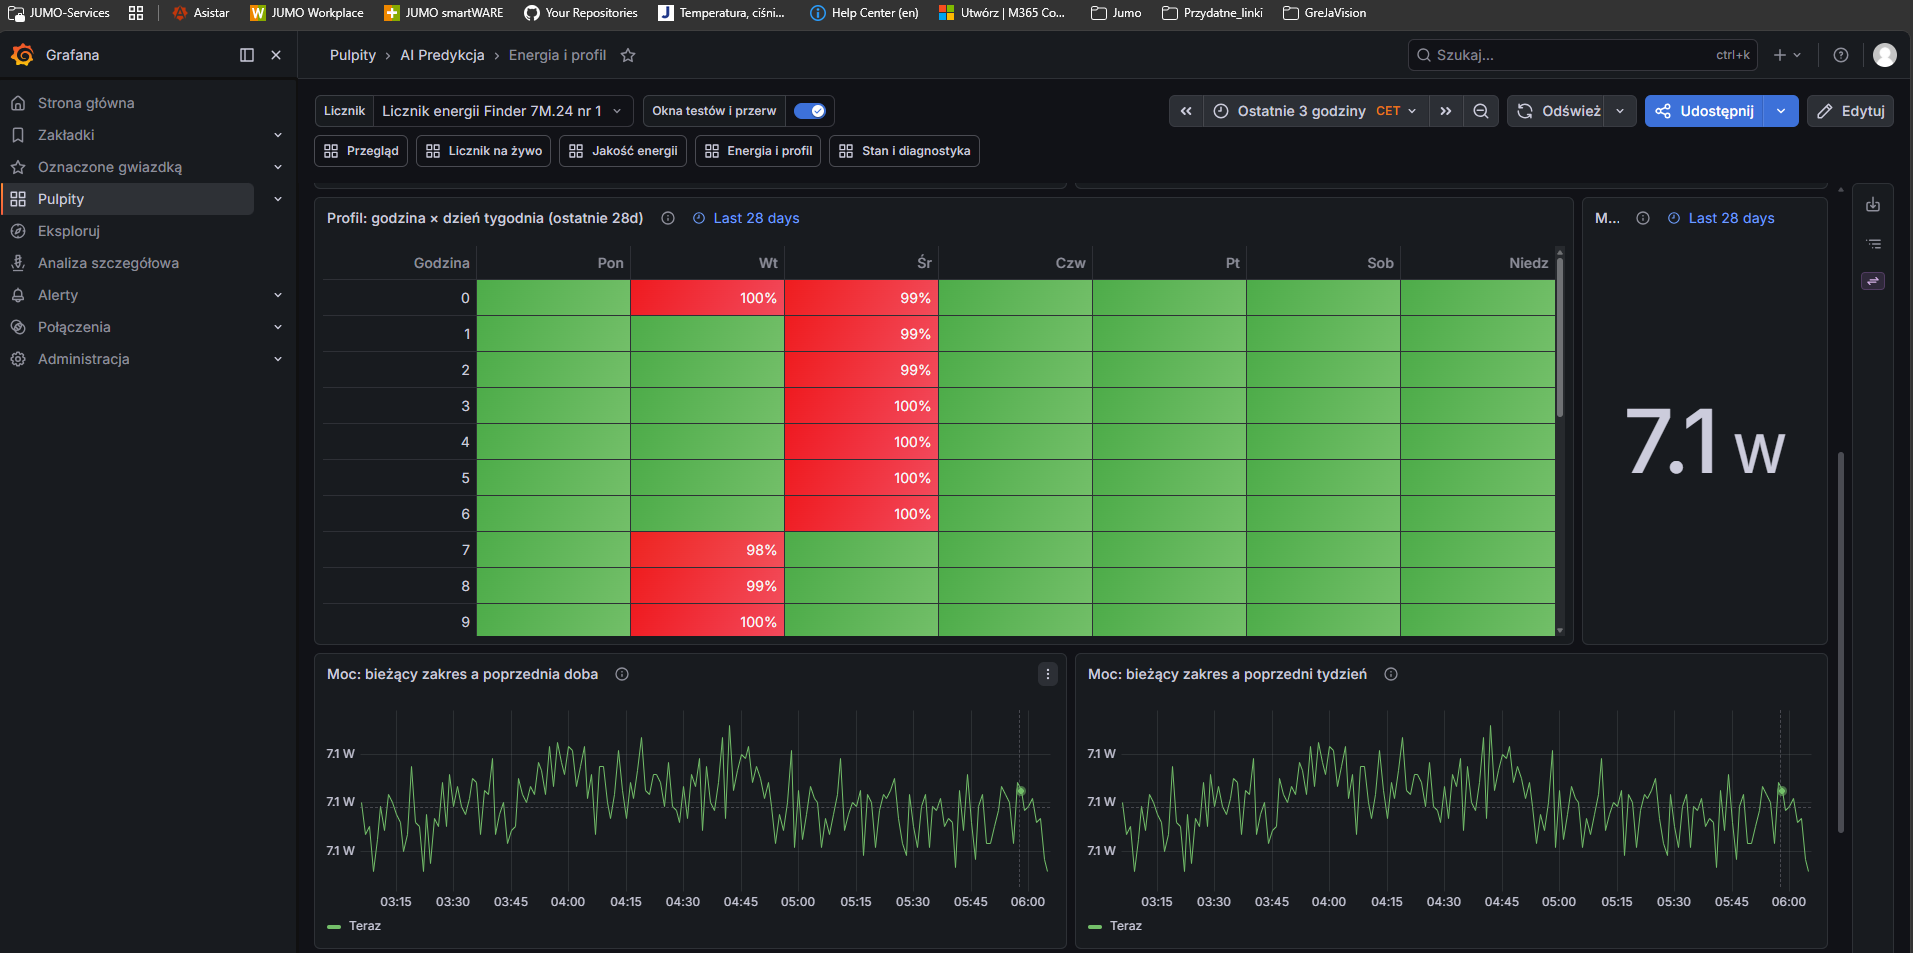
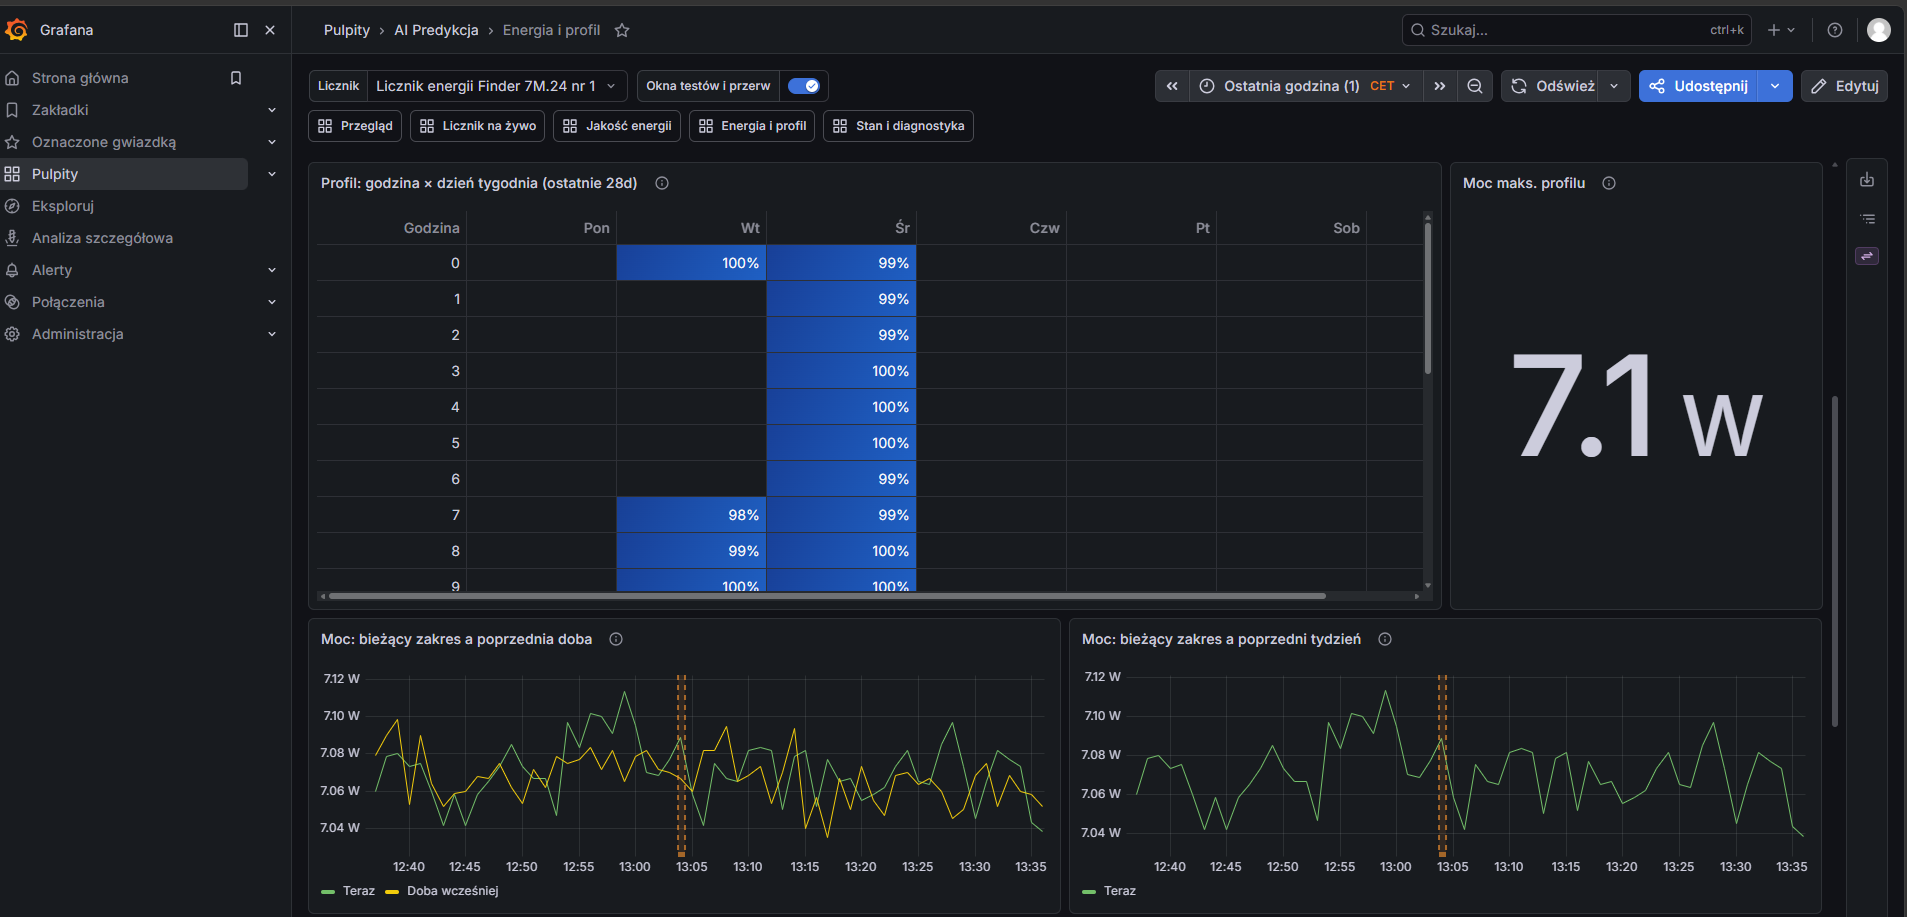
grafana: reactive axis text labels, base power over last 14 nights, profile without horizontal scroll; 13:40 review and screenshots 06 (E2-k8c)

diff --git a/grafana/generate.py b/grafana/generate.py
@@ -487,6 +487,7 @@ PART = "Pokrycie upłynionej części (w toku)"      # jedna nazwa i definicja d
 PROFILE_RANGE = "28d"
 DAYS_RANGE = "14d"
 PROFILE_DAYS, DAILY_DAYS = 28, 14
+BASE_NIGHTS = 14                 # ostatnie noce w panelu mocy bazowej (K8-V6), zakres jak doby
 # Własny zakres panelu liczony w SQL od „teraz”, a nie nadpisaniem `timeFrom`: Grafana stosuje `timeFrom` tylko przy WZGLĘDNYM zakresie pulpitu,
 # a przy bezwzględnym (np. po zaznaczeniu wykresu) go ignoruje, więc panele pokazywały godziny z zakresu pulpitu (K7C-V1, k7d).
 # Znacznik w SQL dla każdego takiego panelu (pilnuje go test): panel -> fragment zapytania.
@@ -500,7 +501,15 @@ OWN_RANGE_PANELS = {            # (dashboard, tytuł) -> klucz znacznika
     ("energia", "Moc maks. profilu"): "profile",
     ("energia", f"Kontrola całki mocy a licznik wzorcowy (doby, ostatnie {DAYS_RANGE})"): "daily",
     ("energia", f"Energia bierna na dobę: całka i licznik (ostatnie {DAYS_RANGE})"): "daily",
+    ("energia", f"Moc bazowa (5. percentyl nocą, ostatnie {BASE_NIGHTS} nocy)"): "daily",
 }
+
+
+# Etykieta doby jako TEKST (K8-V5): samo "23.11" Grafana odczytywala jako liczbe 23,11 i dopisywala jednostke osi wartosci ("23.1 varh").
+# Skrot dnia tygodnia (jak w profilu) czyni etykiete jednoznacznie tekstowa i dodaje informacje.
+def _day_label(day_expr: str) -> str:
+    names = " ".join(f"WHEN {i + 1} THEN '{name}'" for i, name in enumerate(WEEKDAYS))
+    return f"to_char({day_expr}, 'DD.MM') || ' ' || CASE extract(isodow FROM {day_expr})::int {names} END"
 
 
 def _elapsed(bucket_expr: str, width: str) -> str:
@@ -553,7 +562,8 @@ def energy() -> Dash:
                 "to profil zużycia, nie ocena dobrze/źle. Pusta, przezroczysta komórka bez liczby oznacza brak danych.",
                 [target(f"SELECT hour AS \"Godzina\", {cols} FROM (SELECT hour, dow, 100.0 * w / nullif(max(w) OVER (), 0) AS p FROM ({grouped}) g) n "
                         "GROUP BY hour ORDER BY hour", "table")],
-                custom={"cellOptions": {"type": "color-background", "mode": "gradient"}}, decimals=0, unit="percent", min_=0, max_=100,
+                custom={"cellOptions": {"type": "color-background", "mode": "gradient"}, "minWidth": 40, "align": "center"},   # 8 kolumn bez przewijania (K8-V7)
+                decimals=0, unit="percent", min_=0, max_=100,
                 overrides=[{"matcher": {"id": "byName", "options": "Godzina"},
                             "properties": [{"id": "custom.cellOptions", "value": {"type": "auto"}}, {"id": "unit", "value": "none"},
                                            {"id": "color", "value": {"mode": "fixed", "fixedColor": "text"}}]}]), 18, 12, new_row=True)
@@ -580,14 +590,17 @@ def energy() -> Dash:
                              f"FROM energy_1m WHERE bucket BETWEEN $__timeFrom()::timestamptz - interval '7 days' AND $__timeTo()::timestamptz - interval '7 days' AND {DEV} GROUP BY 1 ORDER BY 1",
                              ref="B")],
                      unit="watt", span_ms=150000, decimals=2), 12, 8)
-    d.add(timeseries("Moc bazowa (5. percentyl nocą)",
-                     "Moc bazowa doby: 5. percentyl średniej minutowej mocy czynnej [W] w godzinach lokalnych 00:00–05:00 (obciążenie tła, gdy maszyny nie pracują). "
-                     "Jedna wartość na dobę lokalną.",
-                     [target(f"SELECT (bucket AT TIME ZONE '{TZ}')::date::timestamp AT TIME ZONE '{TZ}' AS time, "
-                             "percentile_cont(0.05) WITHIN GROUP (ORDER BY active_power_sum / active_power_n) AS \"Moc bazowa\" FROM energy_1m "
-                             f"WHERE $__timeFilter(bucket) AND {DEV} AND active_power_n > 0 AND extract(hour FROM bucket AT TIME ZONE '{TZ}') < 5 "
-                             "GROUP BY 1 ORDER BY 1")],
-                     unit="watt", bars=True, span_ms=200000000, decimals=2, min_=0), 24, 8, new_row=True)
+    night_day = f"(bucket AT TIME ZONE '{TZ}')::date"
+    d.add(barchart(f"Moc bazowa (5. percentyl nocą, ostatnie {BASE_NIGHTS} nocy)",
+                   "Moc bazowa doby: 5. percentyl średniej minutowej mocy czynnej [W] w godzinach lokalnych 00:00–05:00 (obciążenie tła, gdy maszyny nie pracują). "
+                   f"Jedna wartość na dobę lokalną. Zakres: ostatnie {BASE_NIGHTS} nocy liczone od teraz, niezależnie od zakresu pulpitu (także bezwzględnego): "
+                   "przy krótkim zakresie (np. 1 godzina) nie ma nocy, więc panel o zakresie pulpitu byłby pusty.",
+                   [target(f"SELECT {_day_label(night_day)} AS \"Noc (doba)\", "
+                           "percentile_cont(0.05) WITHIN GROUP (ORDER BY active_power_sum / active_power_n) AS \"Moc bazowa [W]\" FROM energy_1m "
+                           f"WHERE {night_day} >= {OWN_RANGE_MARKER['daily']} AND {DEV} AND active_power_n > 0 "
+                           f"AND extract(hour FROM bucket AT TIME ZONE '{TZ}') < 5 "
+                           f"GROUP BY {night_day} ORDER BY {night_day}", "table")],
+                   unit="watt", decimals=2, min_=0), 24, 8, new_row=True)
     d.add(timeseries("Energia bierna z mocy (całka Q, godziny)",
                      "Energia bierna z całki mocy biernej [varh] w każdej godzinie, z podziałem na znak Q (suma Q × okres próbkowania / 3600 z obecnych próbek; "
                      "agregat godzinny, obejmuje także okres sprzed mapy v2). Q > 0: indukcyjna (konwencja odbiornika), Q < 0: pojemnościowa, podana jako moduł, "
@@ -599,13 +612,14 @@ def energy() -> Dash:
                    "Energia bierna [varh] w dobie lokalnej: całka mocy biernej (Q > 0 i |Q| przy Q < 0) oraz przyrost liczników n2 (Q > 0) i n4 (Q < 0). "
                    "Przyrost liczy zapytanie z agregatu godzinnego z zapasem 3 dni wstecz (jak widok reactive_1h_calc, ale bez przeglądania całej historii). "
                    "Licznik zmienia stan co 100 varh, a przy Q ≈ −9 var to jeden krok na ok. 11 godzin, więc przyrost dobowy to 0, 100 lub 200: "
-                   "brak przyrostu oznacza „brak kroku licznika”, a nie „brak energii biernej”. Przyrost licznika jest pusty przed mapą v2 (brak danych, nie zero). "
+                   "brak przyrostu oznacza „brak kroku licznika”, a nie „brak energii biernej”. Przyrost licznika jest pusty przed mapą v2 (brak danych, nie zero): dane licznika są od 25.11.2026 10:43 UTC, a do pierwszego kroku licznika n4 "
+                   "(co 100 varh) seria licznika jest pusta lub zerowa, co nie oznacza błędu. "
                    f"Zakres: ostatnie {DAYS_RANGE} liczone od teraz, niezależnie od zakresu pulpitu (także bezwzględnego).",
                    [target("WITH h AS (SELECT bucket, counter_pos_first AS pf, counter_pos_last AS pl, counter_neg_first AS nf, counter_neg_last AS nl, "
                            "reactive_pos_sum, reactive_neg_sum FROM energy_ext_1h WHERE " + DEV + " AND bucket >= now() - interval '17 days'), "
                            "pos AS (SELECT bucket, pf, pl, lag(pl) OVER (ORDER BY bucket) AS prev FROM h WHERE pl IS NOT NULL), "
                            "neg AS (SELECT bucket, nf, nl, lag(nl) OVER (ORDER BY bucket) AS prev FROM h WHERE nl IS NOT NULL) "
-                           "SELECT to_char(day, 'DD.MM') AS \"Doba\", pos_int AS \"Całka Q > 0\", neg_int AS \"Całka |Q| (Q < 0)\", "
+                           f"SELECT {_day_label('day')} AS \"Doba\", pos_int AS \"Całka Q > 0\", neg_int AS \"Całka |Q| (Q < 0)\", "
                            "pos_delta AS \"Licznik n2 (Q > 0)\", neg_delta AS \"Licznik n4 (Q < 0)\" FROM ("
                            f"SELECT (h.bucket AT TIME ZONE '{TZ}')::date AS day, sum(h.reactive_pos_sum) * {POLL} / 3600.0 AS pos_int, "
                            f"-sum(h.reactive_neg_sum) * {POLL} / 3600.0 AS neg_int, "

diff --git a/tests/grafana/test_grafana_generator.py b/tests/grafana/test_grafana_generator.py
@@ -95,7 +95,7 @@ def test_panels_with_their_own_range_do_not_depend_on_the_dashboard_range():
     assert set(generator.OWN_RANGE_PANELS) == {
         ("energia", "Zużycie na dobę (ostatnie 14d)"), ("energia", "Profil: godzina × dzień tygodnia (ostatnie 28d)"),
         ("energia", "Moc maks. profilu"), ("energia", "Kontrola całki mocy a licznik wzorcowy (doby, ostatnie 14d)"),
-        ("energia", "Energia bierna na dobę: całka i licznik (ostatnie 14d)")}
+        ("energia", "Energia bierna na dobę: całka i licznik (ostatnie 14d)"), ("energia", "Moc bazowa (5. percentyl nocą, ostatnie 14 nocy)")}
     for key, marker in generator.OWN_RANGE_PANELS.items():
         panel = panels[key]
         for target in panel["targets"]:
@@ -205,9 +205,9 @@ def test_k7c_formatting_fixes():
     """W-5 (decimals 2), W-6 (słupki), W-7 (krótkie nagłówki), W-8 (wysokość), W-9 (kolor i zapas osi pasm)."""
     panels = _panels()
     for key in (("energia", "Moc: bieżący zakres a poprzednia doba"), ("energia", "Moc: bieżący zakres a poprzedni tydzień"),
-                ("energia", "Moc bazowa (5. percentyl nocą)")):
+                ("energia", "Moc bazowa (5. percentyl nocą, ostatnie 14 nocy)")):
         assert panels[key]["fieldConfig"]["defaults"]["decimals"] == 2, key
-    assert panels[("energia", "Moc bazowa (5. percentyl nocą)")]["fieldConfig"]["defaults"]["custom"]["drawStyle"] == "bars"
+    assert panels[("energia", "Moc bazowa (5. percentyl nocą, ostatnie 14 nocy)")]["type"] == "barchart"             # K8-V6: oś kategorii (nocy), nie czasu pulpitu
     control = next(p for (n, t), p in panels.items() if t.startswith("Kontrola całki mocy"))
     for header in ("Licznik [Wh]", "Ekstrap. [Wh]", "W rozdz.", "Rozdz. [Wh]", "Luki"):
         assert header in control["targets"][0]["rawSql"]
@@ -316,3 +316,32 @@ def test_state_timeline_query_returns_to_the_state_after_a_gap():
     for title in ("Łącze z PLC (link_status)", "Stan licznika (meter_status)"):
         sql = _panels()[("diagnostyka", title)]["targets"][0]["rawSql"]
         assert "time - prev_time > make_interval(secs => $stale_s)" in sql and "prev IS DISTINCT FROM value" in sql, title
+
+
+# --- k8c: K8-V5 (etykiety osi energii biernej), K8-V6 (moc bazowa z własnym zakresem), K8-V7 (profil bez przewijania) ------------
+
+def test_reactive_daily_axis_labels_are_text_and_the_meter_series_is_explained():
+    """K8-V5: etykieta doby nie może wyglądać jak liczba („23.11” -> „23.1 varh”); opis wyjaśnia pustą serię licznika."""
+    panel = _panels()[("energia", "Energia bierna na dobę: całka i licznik (ostatnie 14d)")]
+    sql = panel["targets"][0]["rawSql"]
+    assert "|| ' ' || CASE extract(isodow FROM day)" in sql and "to_char(day, 'DD.MM')" in sql
+    assert "10:43 UTC" in panel["description"] and "n4" in panel["description"] and "pusta" in panel["description"]
+    assert panel["fieldConfig"]["defaults"]["unit"] == "suffix: varh"                  # jednostka na osi wartości, nie kategorii
+
+
+def test_base_power_is_a_barchart_over_the_last_nights_independent_of_the_dashboard_range():
+    """K8-V6: tytuł z zakresem, SQL od „teraz”, etykiety tekstowe (dzień tygodnia)."""
+    panel = _panels()[("energia", "Moc bazowa (5. percentyl nocą, ostatnie 14 nocy)")]
+    sql = panel["targets"][0]["rawSql"]
+    assert panel["type"] == "barchart" and "ostatnie 14 nocy" in panel["title"]
+    assert "$__timeFilter" not in sql and "extract(hour FROM bucket AT TIME ZONE 'Europe/Warsaw') < 5" in sql
+    assert "niezależnie od zakresu pulpitu" in panel["description"]
+
+
+def test_profile_table_fits_all_seven_days_without_horizontal_scrolling():
+    """K8-V7: wąskie kolumny (8 kolumn: godzina + 7 dni): minWidth <= 60 px, łącznie <= 480 px, mieści się w panelu 18 z 24 kolumn."""
+    panel = next(p for (n, t), p in _panels().items() if t.startswith("Profil: godzina"))
+    custom = panel["fieldConfig"]["defaults"]["custom"]
+    assert custom["minWidth"] <= 60 and custom["minWidth"] * 8 <= 480
+    sql = panel["targets"][0]["rawSql"]
+    assert all(f'AS "{name}"' in sql for name in ("Pon", "Wt", "Śr", "Czw", "Pt", "Sob", "Niedz"))

diff --git a/tests/grafana/test_grafana_panels.py b/tests/grafana/test_grafana_panels.py
@@ -22,7 +22,6 @@ SENTINEL_ONLY = {
 }
 # Zakresy, w których z definicji danych może nie być odpowiednich próbek.
 MAY_BE_EMPTY = {
-    ("Moc bazowa (5. percentyl nocą)", "15m"), ("Moc bazowa (5. percentyl nocą)", "6h"),
     ("Sekundy bez pomiaru mocy na godzinę", "15m"),
     ("Zużycie na godzinę", "15m"), ("Zużycie na minutę", "15m"),
     ("Kod błędu komunikacji PLC–licznik (meter_error_code)", "7d"),
@@ -229,3 +228,24 @@ def test_state_timeline_resumes_after_a_gap_without_a_change_of_state(grafana_da
         if value == no_data:
             assert position + 1 < len(values) and values[position + 1] != no_data, f"{title}: po „Brak danych” nie wraca stan"
     assert values[-1] != no_data, f"{title}: oś kończy się w „Brak danych” mimo płynących danych"
+
+
+def test_reactive_daily_labels_are_not_numbers_and_base_power_has_nights_for_a_short_range(grafana_data):
+    """K8-V5: żadna etykieta doby nie daje się odczytać jako liczba; K8-V6: moc bazowa ma słupki przy zakresie 15 minut."""
+    now = time.time()
+    panel = next(p for p in DASHES["energia"]["panels"] if p["title"].startswith("Energia bierna na dobę"))
+    target = panel["targets"][0]
+    result = ds_query(expand_vars(target["rawSql"], M1), target["format"], now - 900, now, target["refId"])
+    assert not result["error"], result["error"]
+    labels = result["frames"][0]["data"]["values"][0]
+    assert len(labels) >= 10
+    for label in labels:
+        with pytest.raises(ValueError):
+            float(label)
+        assert label[-3:].strip() and label[2] == "." and label[5] == " ", label
+    base = next(p for p in DASHES["energia"]["panels"] if p["title"].startswith("Moc bazowa"))
+    result = ds_query(expand_vars(base["targets"][0]["rawSql"], M1), "table", now - 900, now)
+    assert not result["error"], result["error"]
+    names = result["frames"][0]["data"]["values"][0]
+    values = result["frames"][0]["data"]["values"][1]
+    assert 10 <= len(names) <= 15 and all(v is not None and v > 0 for v in values), (len(names), values)

diff --git a/docs/handoff/e2-k8a-visual-review.md b/docs/handoff/e2-k8a-visual-review.md
@@ -40,3 +40,25 @@ i godziny epizodów (nowe serie? E2-PLC1). Wynik do raportu – tylko opis.
 
 k8c (bez osobnego planu): K8-V1…V4, testy, wdrożenie R-1, raport `e2-k8c-report.md`. Potem Grzegorz robi
 zrzut 07 (Diagnostyka) i zrzuty Energii i profilu (06, 06b, 06c, energia bierna).
+
+## Dopisek 13:40 – Energia i profil (zrzuty 06, 06b, 06c, zakres „Ostatnia godzina”)
+
+Potwierdzone: profil godzinowy niebieski, puste godziny zaniku przezroczyste; porównania mocy z 2 miejscami
+po przecinku; „Zużycie na dobę” jako słupki z etykietą „DD.MM (xx%)”; tabela kontrolna bez przewijania;
+energia bierna z całki Q (godzina 13:00 ok. 5 varh przy Q ≈ −8,5 var – zgodne); spadki „Zużycia na minutę”
+o 12:58 (wdrożenie) i 13:04 (restart) z widocznym spadkiem pokrycia – poprawne zachowanie.
+
+**K8-V5 – „Energia bierna na dobę: całka i licznik”: zepsute etykiety osi.** Kategorie pokazują się jako
+„23.1 varh”, „24.1 varh”, „25.1 varh” zamiast „23.11”, „24.11”, „25.11” – etykieta doby jest traktowana jak liczba
+i dostaje jednostkę. Etykieta jako tekst (jak w „Zużyciu na dobę”), jednostka tylko na osi wartości.
+Seria licznika (n2/n4) jest pusta, bo dane v2 są od 25.11 10:43 i n4 jeszcze nie zrobiło kroku – opisać to w panelu.
+
+**K8-V6 – „Moc bazowa (5. percentyl nocą)” pokazuje „Brak danych” przy krótkich zakresach.** Przy zakresie
+1 h nie ma nocy, więc panel jest pusty. Własny zakres liczony w SQL (jak w k7d), np. ostatnie 14 nocy, niezależnie
+od zakresu pulpitu; w tytule „(ostatnie 14 nocy)”.
+
+**K8-V7 – „Profil: godzina × dzień tygodnia”: poziomy pasek przewijania, kolumna „Niedz” ucięta.**
+Wszystkie 7 dni ma się mieścić bez przewijania w poziomie (szerokości kolumn albo szerszy panel kosztem kafelka
+„Moc maks. profilu”).
+
+Drobne, bez zmian: „Zużycie na godzinę” przy zakresie 1 h pokazuje praktycznie jeden słupek – to wynika z zakresu.
